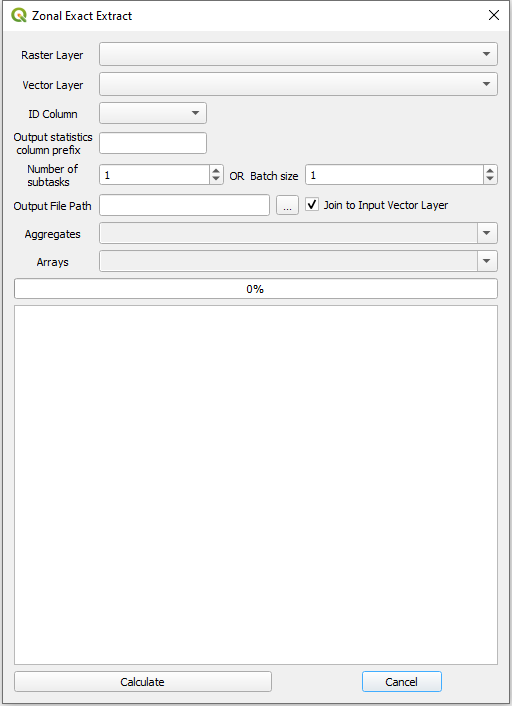
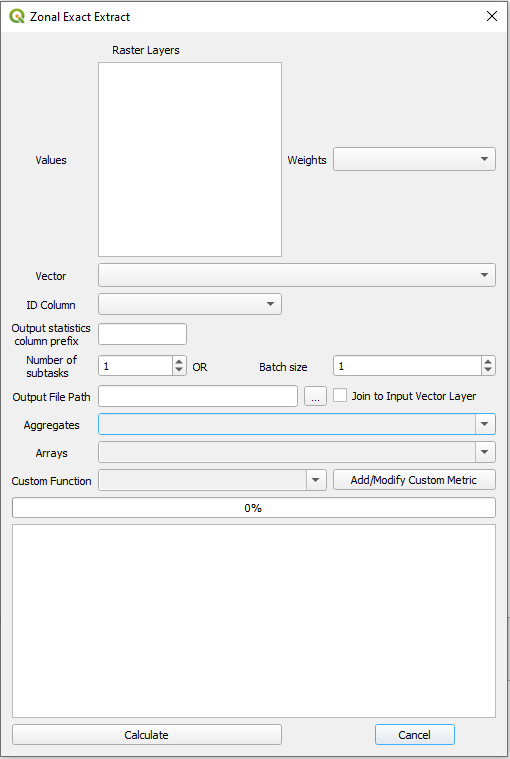
README update

diff --git a/README.md b/README.md
@@ -41,7 +41,9 @@ There is also option to modify custom functions defined by user earlier. In orde
 
 > **Warning:** If there's an error during processing of custom function code whole processing will be stopped. Wrong function may also block QGIS or make it crash.
 - **Usage of QGIS parallel engine**: There is an option to process statistics calculation in multiple parts (subtasks/batch option). Calculation of statistics in this case is done in parallel manner using ``QgsTaskManager`` engine. To configure number of parallel cores it will use you should configure `Max Threads` option in QGIS settings.
-- **Support for multiband rasters**: In case there's a multiband raster - each band is processed during calculations and is output as separate set of columns.
+- **Support multiple values rasters**: Selection of multiple rasters will process each raster separately and append to the result.
+- **Support multiband rasters**: In case there's a multiband raster - each band is processed during calculations and is output as separate set of columns.
+- **Support weights raster**
 
 ### Features to be added
 - Move all heavy operations to QGIS ``QgsTask``;
